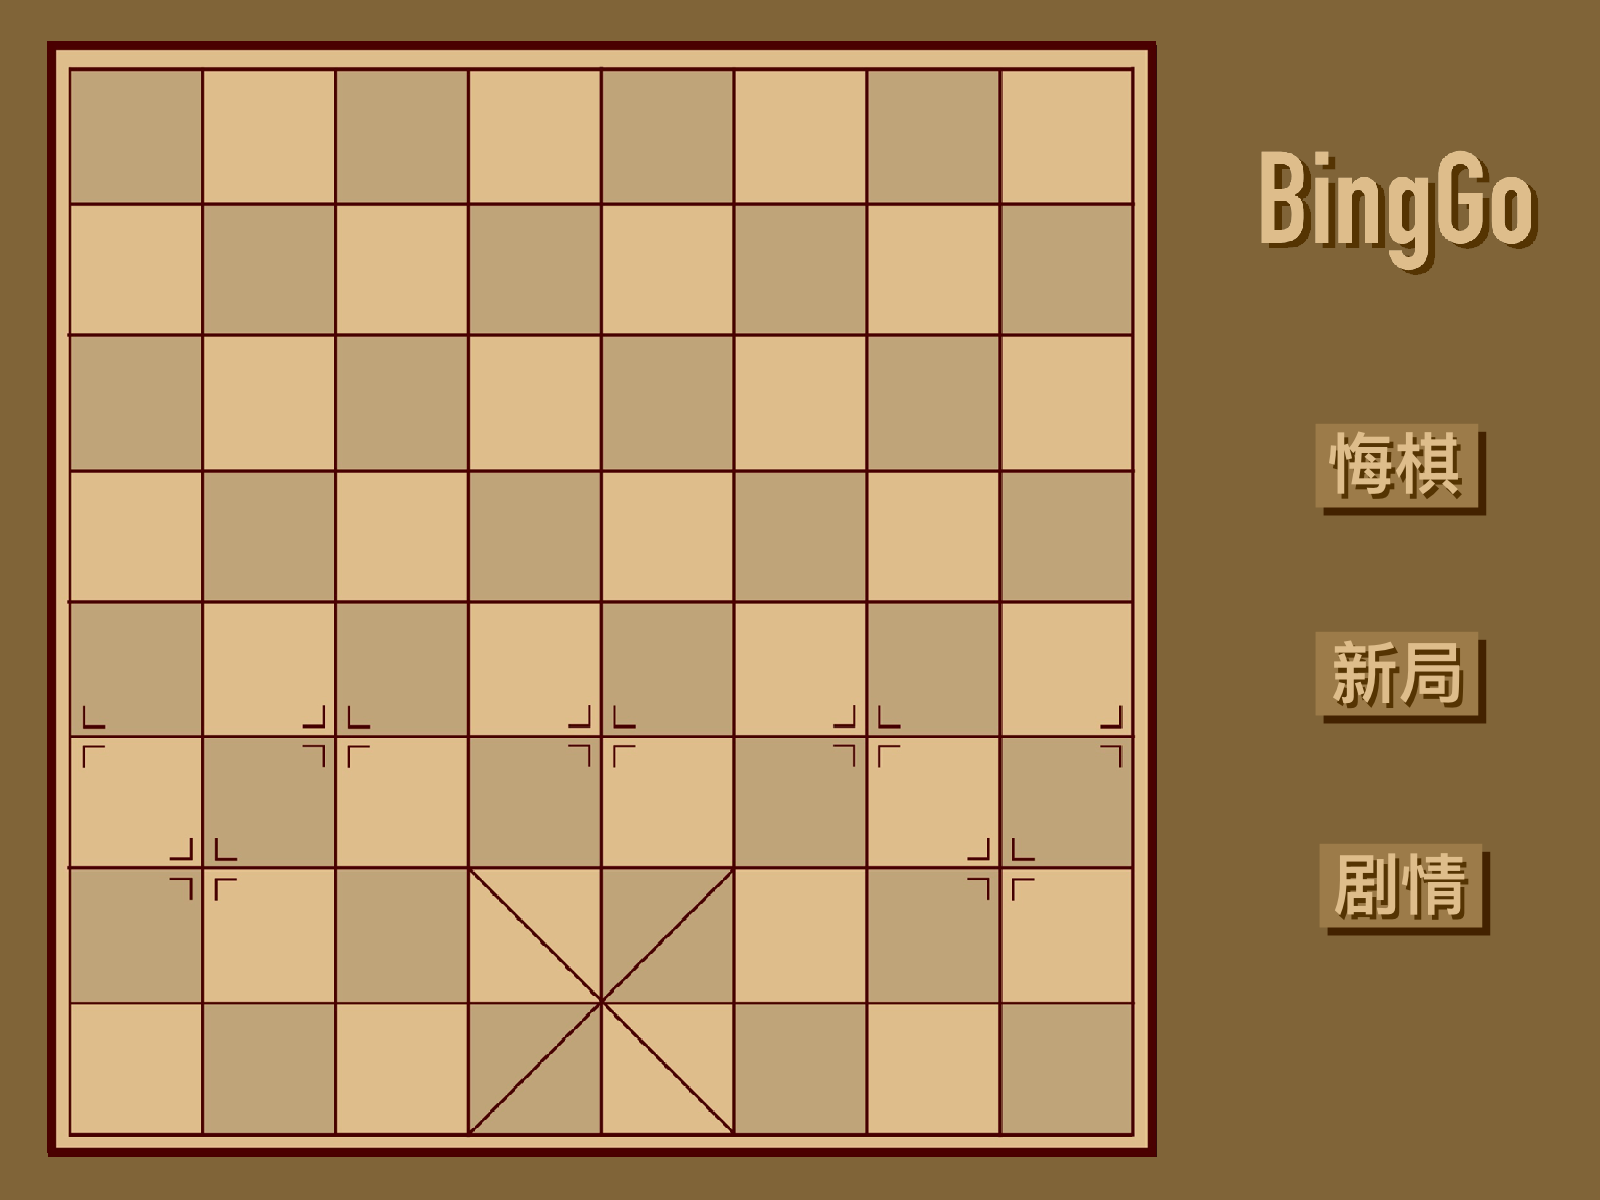
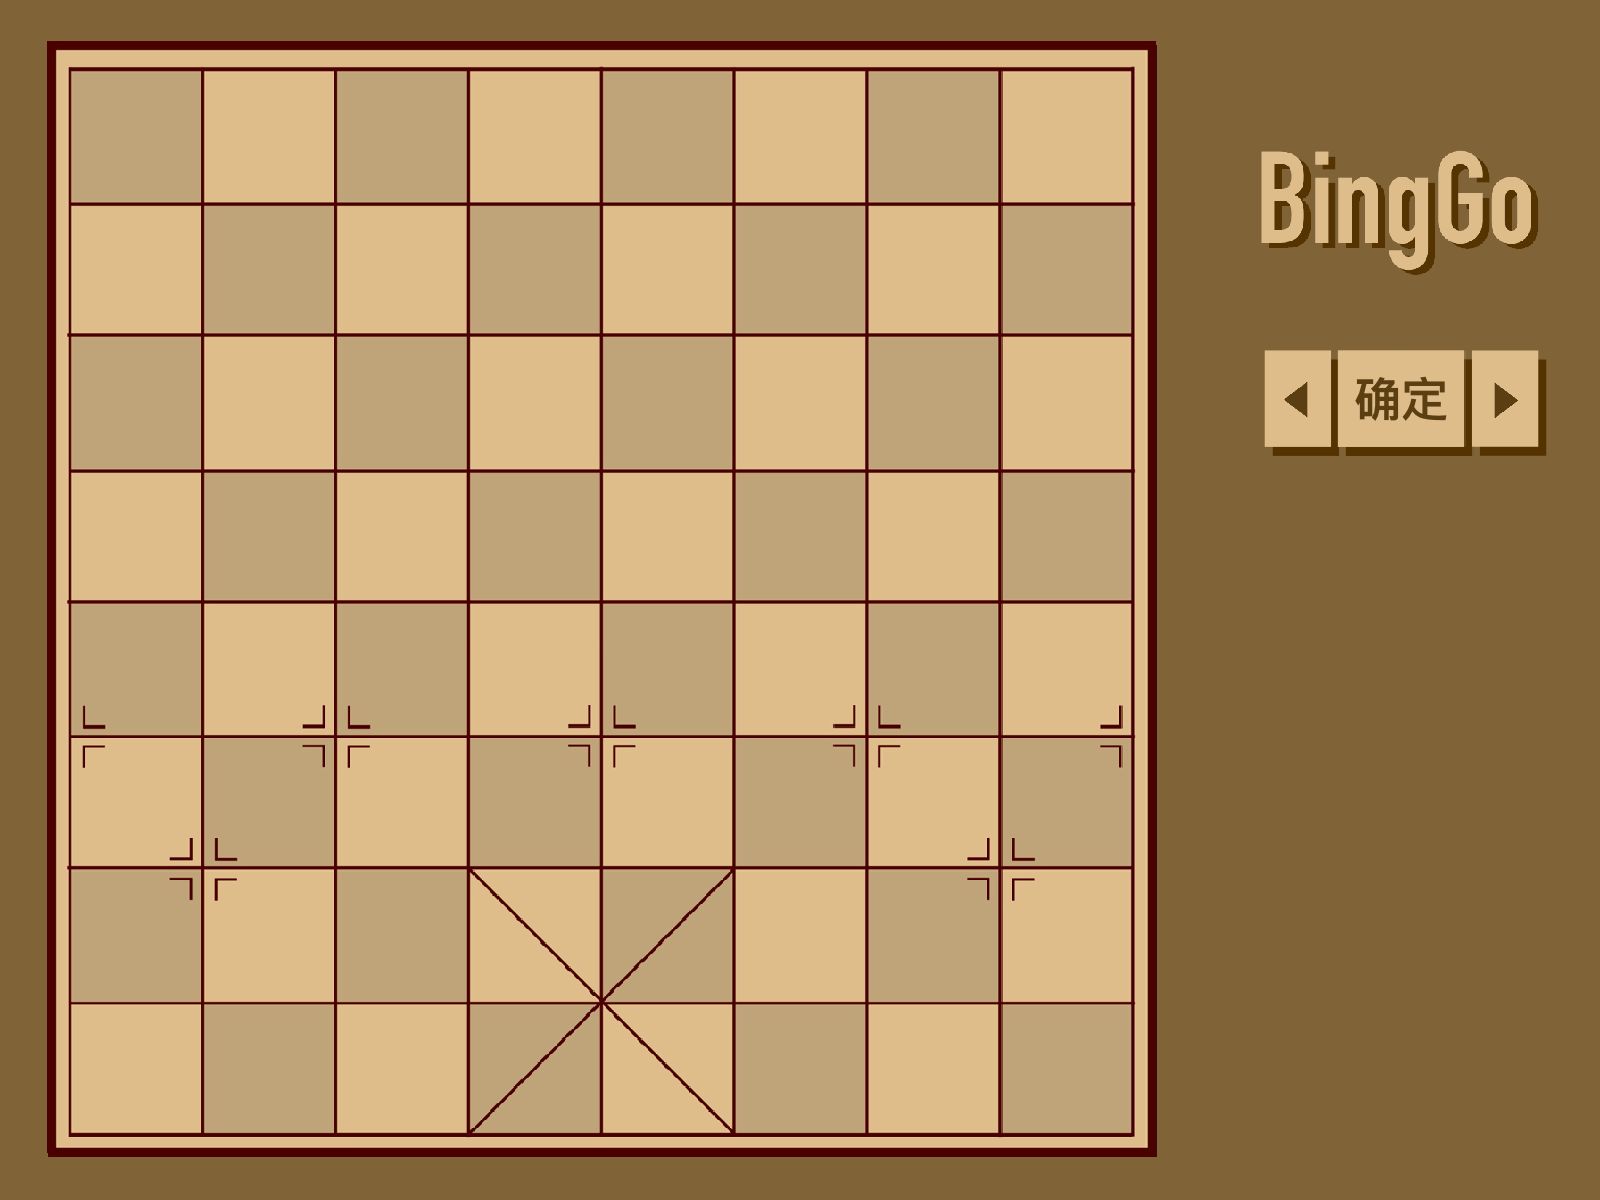
阵营和按钮悔棋

Changed region(s): [[0.7812, 0.2775, 0.9688, 0.4317], [0.8125, 0.6783, 0.9375, 0.8017], [0.8125, 0.5242, 0.9375, 0.6167]]

diff --git a/display.py b/display.py
@@ -101,11 +101,11 @@ class BingGo(App):
         self.layout.remove_widget(self.imgs[idt])
         self.layout.add_widget(self.imgs[idt])
         # 走子平移动画
-        animation = Animation(pos_hint={'center_x': fx(pto), 'center_y': fy(pto)}, duration=0.25)
+        animation = Animation(pos_hint={'center_x': fx(pto), 'center_y': fy(pto)}, duration=0.1)
         animation.start(self.imgs[idt])
         # 吃子消失动画
         if yummy:
-            Clock.schedule_once(lambda dt: self.layout.remove_widget(self.imgs[cuisine]), 0.25)
+            Clock.schedule_once(lambda dt: self.layout.remove_widget(self.imgs[cuisine]), 0.1)
 
     def board(self, x, y):
         """点按棋盘"""
@@ -121,6 +121,8 @@ class BingGo(App):
         elif self.active_qizi is not None and p in self.active_qizi.get_ma():  # 点选位置self.active_qizi能走到
             self._move_force(pfrom=self.active_qizi.p, pto=p)
             print("已移动")
+            self.mycamp = not self.mycamp
+            self.active_qizi = None
         else:
             print("无法抵达或无法选中")
         return
@@ -128,16 +130,17 @@ class BingGo(App):
     def handle_button_press(self, window, touch):
         if touch.button == 'left':
             x, y = touch.pos
+            print (x,y)
             x, y = x / M, y / M
             if x < 1250:
                 self.board(x, y)
-            elif 1316 < x < 1484:
-                if 680 < y < 768:
+            elif 750 < y < 848:
+                if 1268 < x < 1332:
                     print("regret")
-                elif 483 < y < 568:
-                    print("new")
-                elif 263 < y < 356:
-                    print("story")
+                elif 1342 < x < 1462:
+                    print("sure")
+                elif 1476 < x < 1536:
+                    print("gret")
 
 
 if __name__ == '__main__':
